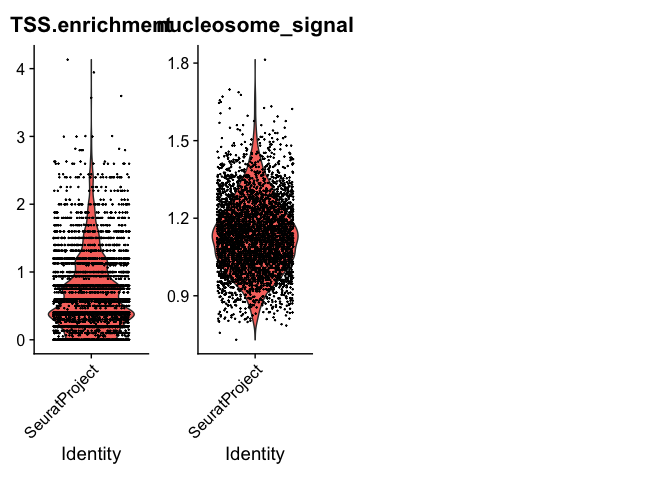
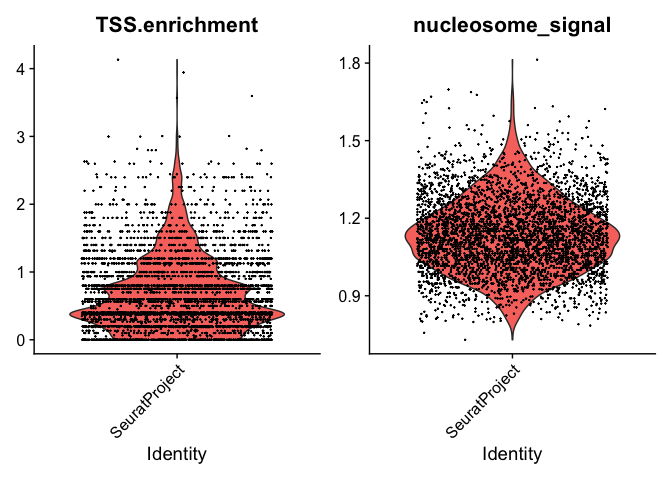
fixed plot legend overlap

diff --git a/plot_cfDNA_scATAC/sc_cfDNA_demo.md b/plot_cfDNA_scATAC/sc_cfDNA_demo.md
@@ -7,6 +7,11 @@ sc_cfDNA_demo
 This file is an augmented version of the scATAC-seq analysis found here:
 <https://satijalab.org/signac/articles/pbmc_vignette.html>
 
+While the code for the vignette is mostly unchanged, the input data is
+cfDNA that has been preprocessed to be in the same format as scATAC-seq
+data. The preprocessing is done by another script in the repo:
+<https://github.com/nrosed/cfDNA_atac_demo/blob/main/cfDNA_to_mtx/GM_0HR_mtx_file.Rmd>
+
 This is the basis for the pseudobulk scATAC-Seq analysis and shows we
 can use the scATAC-Seq tools for cfDNA analysis.
 
@@ -213,7 +218,7 @@ VlnPlot(
   features = c('pct_reads_in_peaks', 'peak_region_fragments',
                'TSS.enrichment', 'blacklist_ratio', 'nucleosome_signal'),
   pt.size = 0.1,
-  ncol = 5
+  ncol = 2
 )
 ```
 
@@ -407,5 +412,6 @@ ggplot(subset(plot_fft, freq < 0.05), aes(x = tf, y = log10(spec), fill=tf)) + g
 <img src="sc_cfDNA_demo_files/figure-gfm/cubic_spline-5.png" style="display: block; margin: auto;" />
 
 ``` r
-saveRDS(footprint_df, "data/data_alexis/GM_0HR_footprints.RDS")
+out_dir = paste0(proj_dir, "/data/data_alexis/GM_0HR_footprints.RDS")
+saveRDS(footprint_df, out_dir)
 ```
